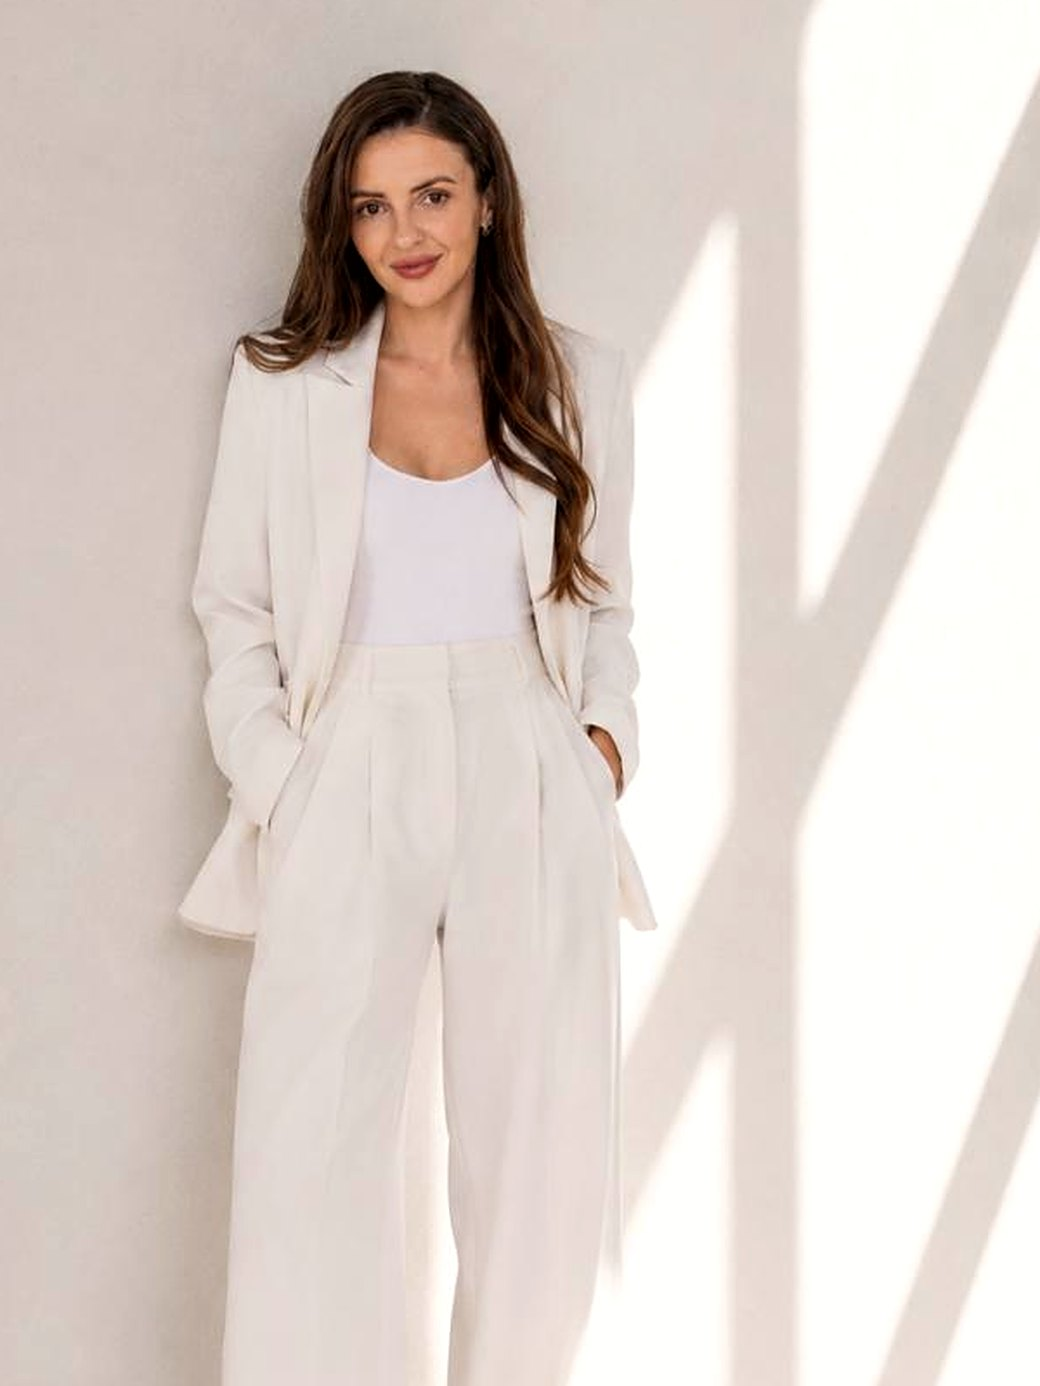
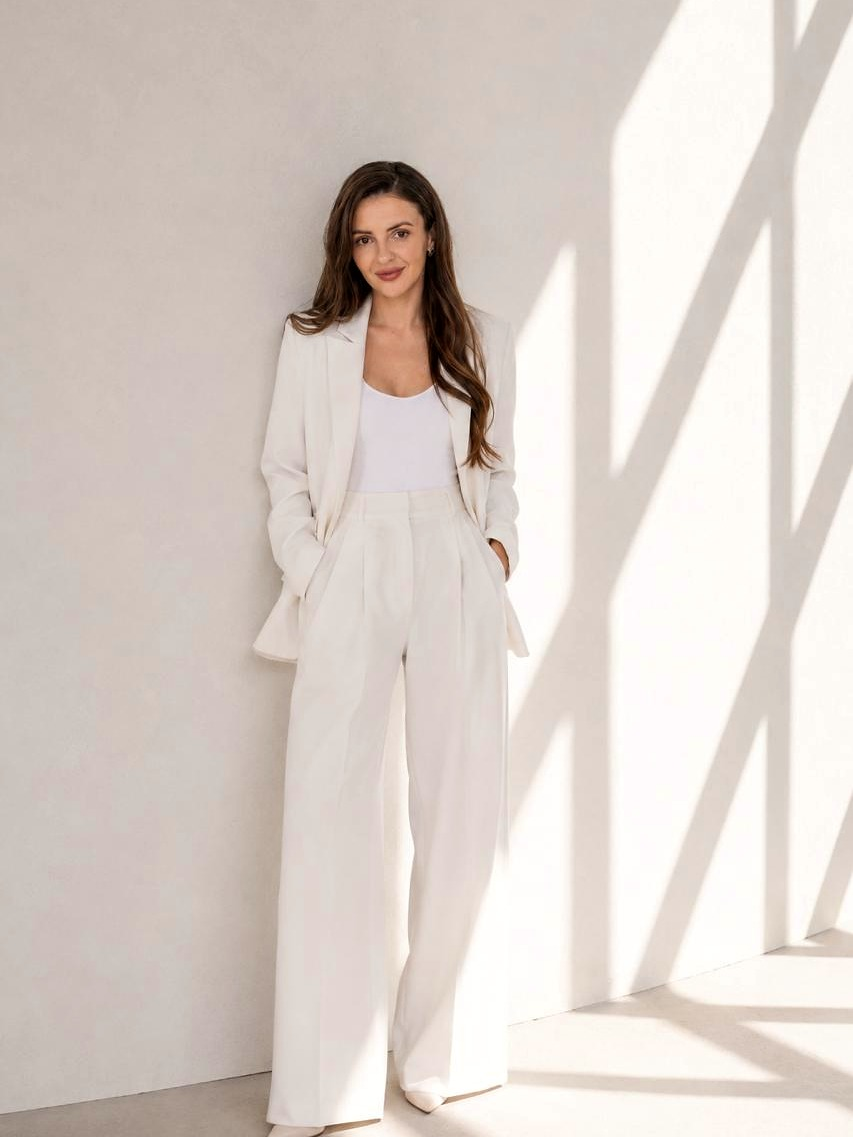
[agent] fix(kviz): повний текст привітання + фото без апскейлу (нативні 853px)

diff --git a/kviz/index.html b/kviz/index.html
@@ -90,8 +90,10 @@ body.intro .top,body.intro .bar{display:none}
     <h1>Вітаю! <em>Дякую за підписку</em></h1>
     <div class="lead">
       <p>Ми з командою робимо Reels під ключ, з якими ви будуєте особистий бренд і виходите на новий рівень заявок і клієнтів.</p>
-      <p>Більшість експертів хочуть просуватись через Reels, але пишуть сценарії без аналізу ринку, конкурентів і аудиторії. Ми починаємо з аналізу, і вже на його основі знімаємо Reels, які приводять саме ваших клієнтів.</p>
-      <p class="muted">Дайте відповіді на 4 короткі питання, і я напишу вам у Direct, як саме просуватись у вашій ніші. Безкоштовно, без цін і «купіть».</p>
+      <p>Більшість експертів і власників бізнесу хочуть просуватись через Reels, але не знають, що саме робити, і припускаються типових помилок: пишуть сценарії без аналізу ринку і конкурентів, без стратегії просування, не розуміючи, як саме конкретне відео має принести заявку, не сегментують аудиторію і не роблять конкретних рекламних оферів.</p>
+      <p>Наша робота будується інакше. Спочатку аналіз: ринок, конкуренти, цільова аудиторія, продукт і ви як експерт, ваш досвід, сильні сторони і те, за що вас обирають клієнти. І вже на основі цього ми робимо Reels, які будують ваш особистий бренд і приводять саме ваших цільових клієнтів.</p>
+      <p>Проаналізувавши ринки наших клієнтів, ми бачимо одне й те саме: багато конкурентів або не роблять Reels взагалі, або роблять їх хаотично і неякісно. Тому у вас зараз є перевага: у плані маркетингу ринок ще досить вільний, і ви можете бути на крок попереду конкурентів.</p>
+      <p class="muted">Щоб я показала, як саме просуватись через Reels у вашій ніші, дайте відповіді на 4 коротких питання. Це хвилина, безкоштовно.</p>
     </div>
     <div class="spacer"></div>
     <button class="btn" onclick="go(1)">Почати</button>
